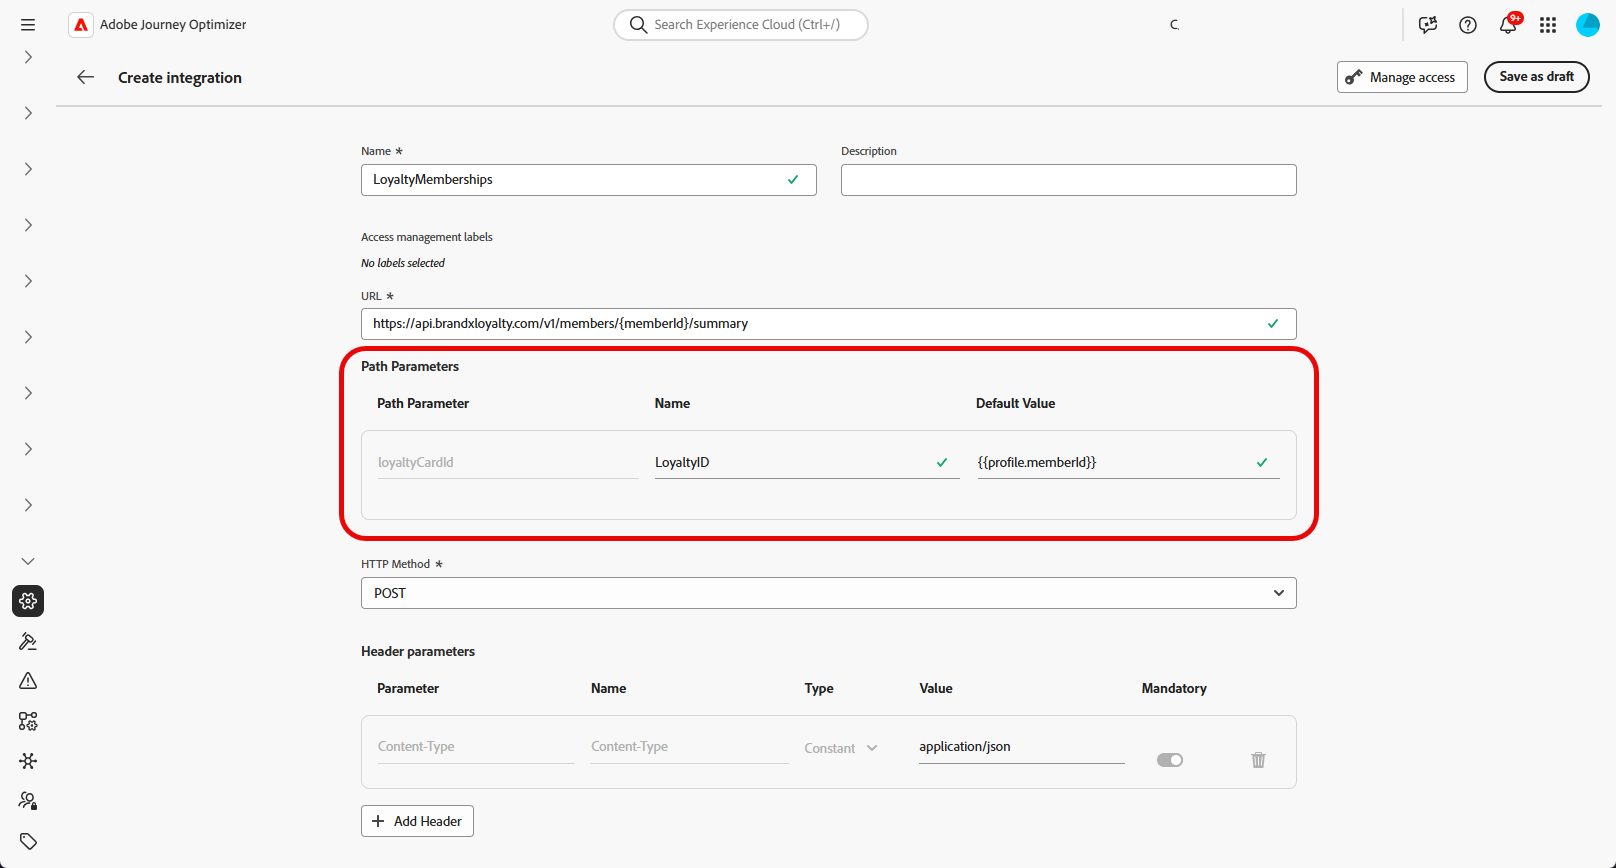
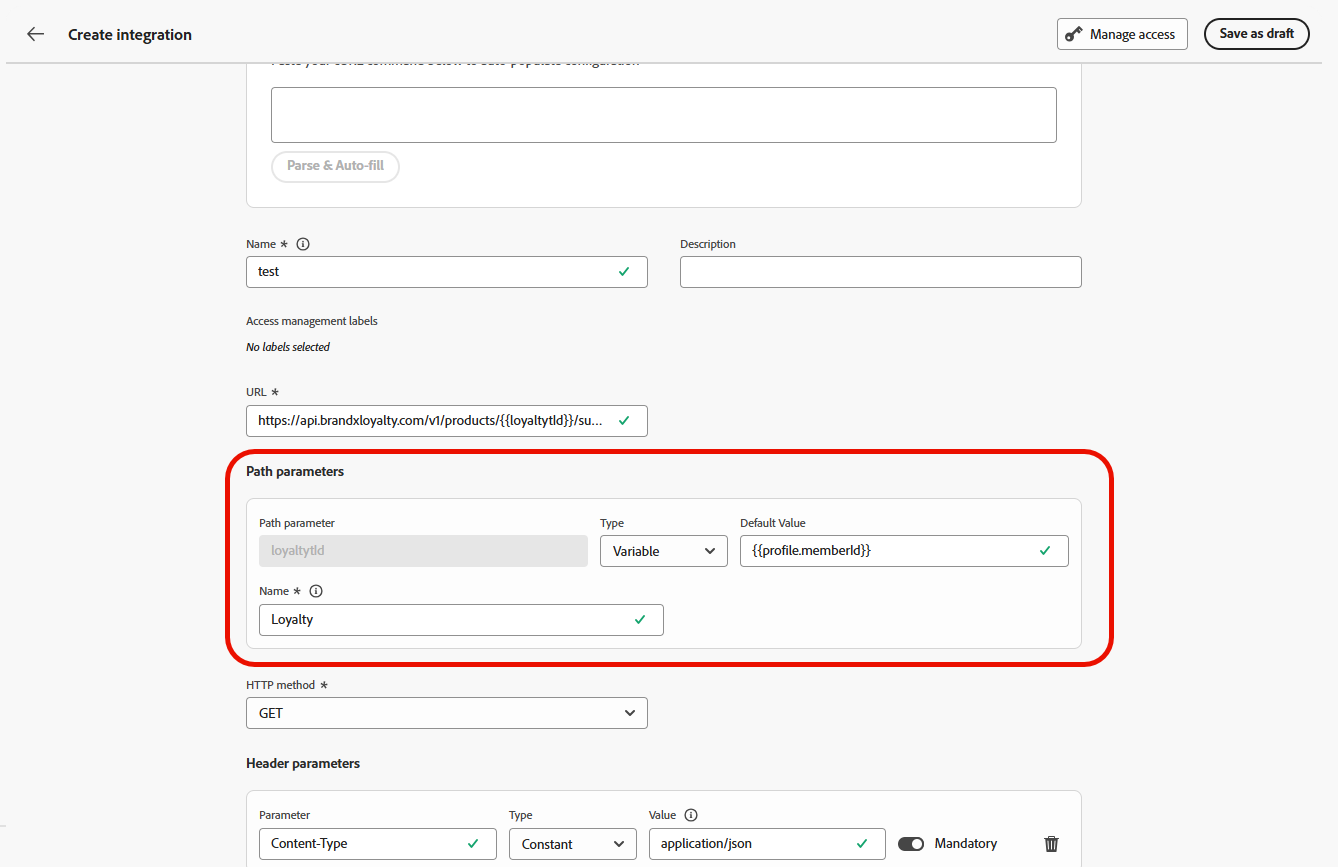
in progress

diff --git a/help/using/integrations/integrations-listing.md b/help/using/integrations/integrations-listing.md
@@ -1,0 +1,70 @@
+---
+solution: Journey Optimizer
+product: journey optimizer
+title: Work with Listing Integrations
+description: Configure Listing integrations that let marketers search, browse, and select items from external APIs directly in the authoring experience
+feature: Integrations
+topic: Content Management
+role: User
+level: Beginner
+keywords: integration
+exl-id: a82364bd-7e3b-4a38-a6e0-b841a21b59f4
+---
+# Work with Listing integrations {#listing}
+
+>[!BEGINSHADEBOX]
+
+**On this page:** Learn how administrators configure Listing integrations that let marketers search, browse, and select items from external APIs directly in the authoring experience, and how to link them to Standard integrations.
+
+>[!ENDSHADEBOX]
+
+In addition to Standard integrations, you can create **Listing** integrations. A Listing integration lets marketers search, browse, and paginate through items returned by an external API, then select a specific item directly in the authoring experience instead of manually entering a parameter value.
+
+## Create a Listing integration {#create-listing}
+
+As an administrator, you can set up external Listing integrations by following these steps:
+
+1. Navigate to the **[!UICONTROL Configurations]** section in the left menu, click **[!UICONTROL Manage]** from the **[!UICONTROL Integrations]** card, then select the **[!UICONTROL Browsing]** tab.
+
+1. Click **[!UICONTROL Create Integration]** to start a new Listing integration.
+
+1. Provide the integration information as detailed in the [step-by-step instructions](integrations.md#configure) for standard integrations.
+
+1. From the **[!UICONTROL Browsing]** menu, choose the **[!UICONTROL Items path]** where the list of items is located.
+
+    ![](assets/browsing_1.png)
+
+1. In the **[!UICONTROL Search]** drop-down, **[!UICONTROL Enable search]** and select which parameter carries the search query, then provide a description for marketers.
+
+    ![](assets/browsing_2.png)
+
+1. Enable the **[!UICONTROL Pagination]** to choose a pagination type
+
+    ![](assets/browsing_3.png)
+
+1. From the **[!UICONTROL Render]** menu, choose how you want your items to be displayed.
+
+1. Select which fields to display as columns when marketers browse the list of items.
+
+1. Click **[!UICONTROL Test browsing]** to preview the search and pagination behavior with the configured settings.
+
+1. Save the Listing integration, then click **[!UICONTROL Publish]** and **[!UICONTROL Activate]**.
+
+## Link a Listing integration to a Standard integration {#use-listing}
+
+You can let marketers pick an item from a Listing integration to populate a parameter value in a Standard integration.
+
+1. While configuring a parameter on a Standard integration, enable **[!UICONTROL Browsing]**.
+
+1. Click the selector button and choose the Listing integration to link.
+
+    The parameters exposed by the linked Listing integration are fetched, and you can set default values for them.
+
+1. Set the **[!UICONTROL Reference path]** to the field of the listed item that should be passed as the parameter value, for example an **ID**.
+
+1. Save and publish the Standard integration.
+
+## Select items during authoring {#select-listing-items}
+
+When a parameter is linked to a Listing integration, marketers see a selector in the message or journey editor instead of a plain input field. They can search and browse the paginated list of items returned by the Listing integration, select the item they want, and confirm their selection. The corresponding **[!UICONTROL Reference path]** value is then automatically inserted into the integration parameter.
+

diff --git a/help/using/integrations/integrations.md b/help/using/integrations/integrations.md
@@ -89,9 +89,9 @@ As an administrator, you can set up external integrations by following these ste
 
 1. Enter the API endpoint **[!UICONTROL URL]**. 
 
-    For path variables, wrap a label in double curly braces in the URL, for example, `https://api.example.com/v1/products/{{productId}}`, then set each placeholder in **[!UICONTROL Path Template]**.
+    For path variables, wrap a label in double curly braces in the URL, for example, `https://api.example.com/v1/products/{{productId}}`, then set each placeholder in **[!UICONTROL Path Parameter]**.
 
-1. Configure the **[!UICONTROL Path Template]** with **[!UICONTROL Name]** and **[!UICONTROL Default value]** for every placeholder you added in the URL.
+1. Configure the **[!UICONTROL Path Parameter]** with **[!UICONTROL Name]** and **[!UICONTROL Default value]** for every placeholder you added in the URL.
 
     Note that the **[!UICONTROL Name]** is a marketer-facing label in the editor only, it is not sent on the API request.
 
@@ -192,6 +192,7 @@ After the test succeeds, select **[!UICONTROL Activate]** in the integration con
 
 **See also**
 
+* [Work with Listing integrations](integrations-listing.md)
 * [Integrations troubleshooting FAQ](vendor-integration-faq.md#troubleshooting)
 * [Monitoring & Troubleshooting](../../rp_landing_pages/troubleshoot-journey-landing-page.md)
 

diff --git a/help/TOC.md b/help/TOC.md
@@ -554,7 +554,8 @@ nudge: yes
     + [Work with GenStudio for Performance Marketing](using/integrations/genstudio.md)
     + [Integrate with Intelligent Services](using/integrations/intelligent-services.md)
     + Integrations {#integrations}
-      + [Work with Integrations](using/integrations/integrations.md)
+      + [Work with Standard integrations](using/integrations/integrations.md)
+      + [Work with Listing integrations](using/integrations/integrations-listing.md)
       + [Using External integrations for personalization](using/integrations/integrations-personalization.md)
       + [FAQ](using/integrations/vendor-integration-faq.md)
       + Sample Vendors {#vendors}
